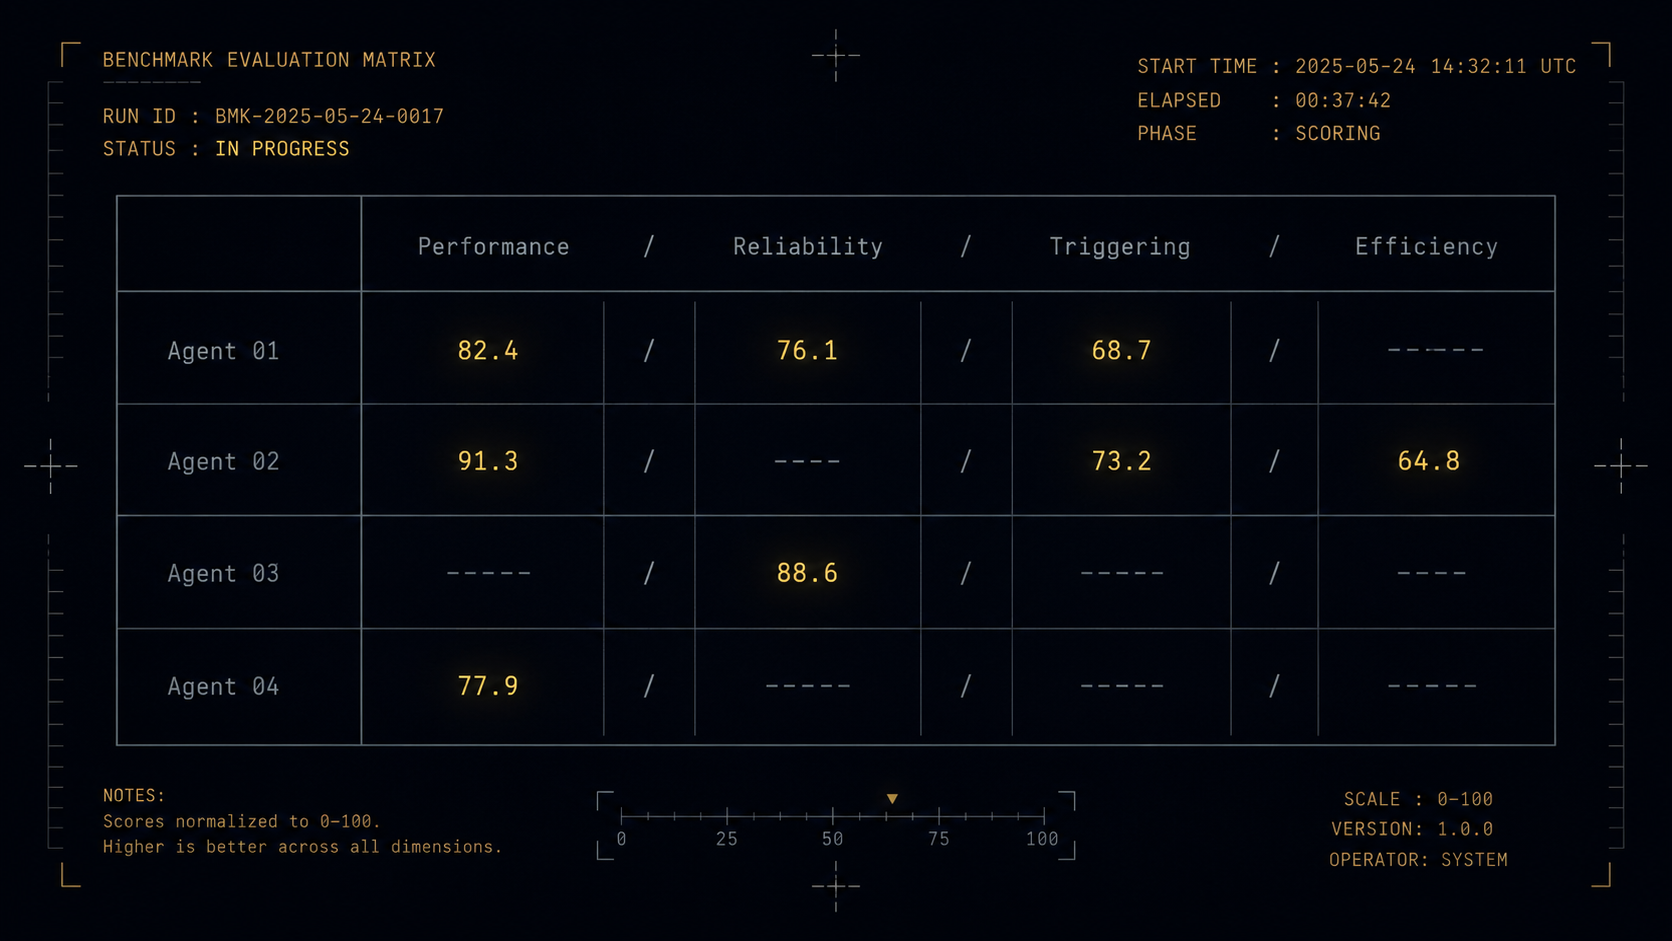
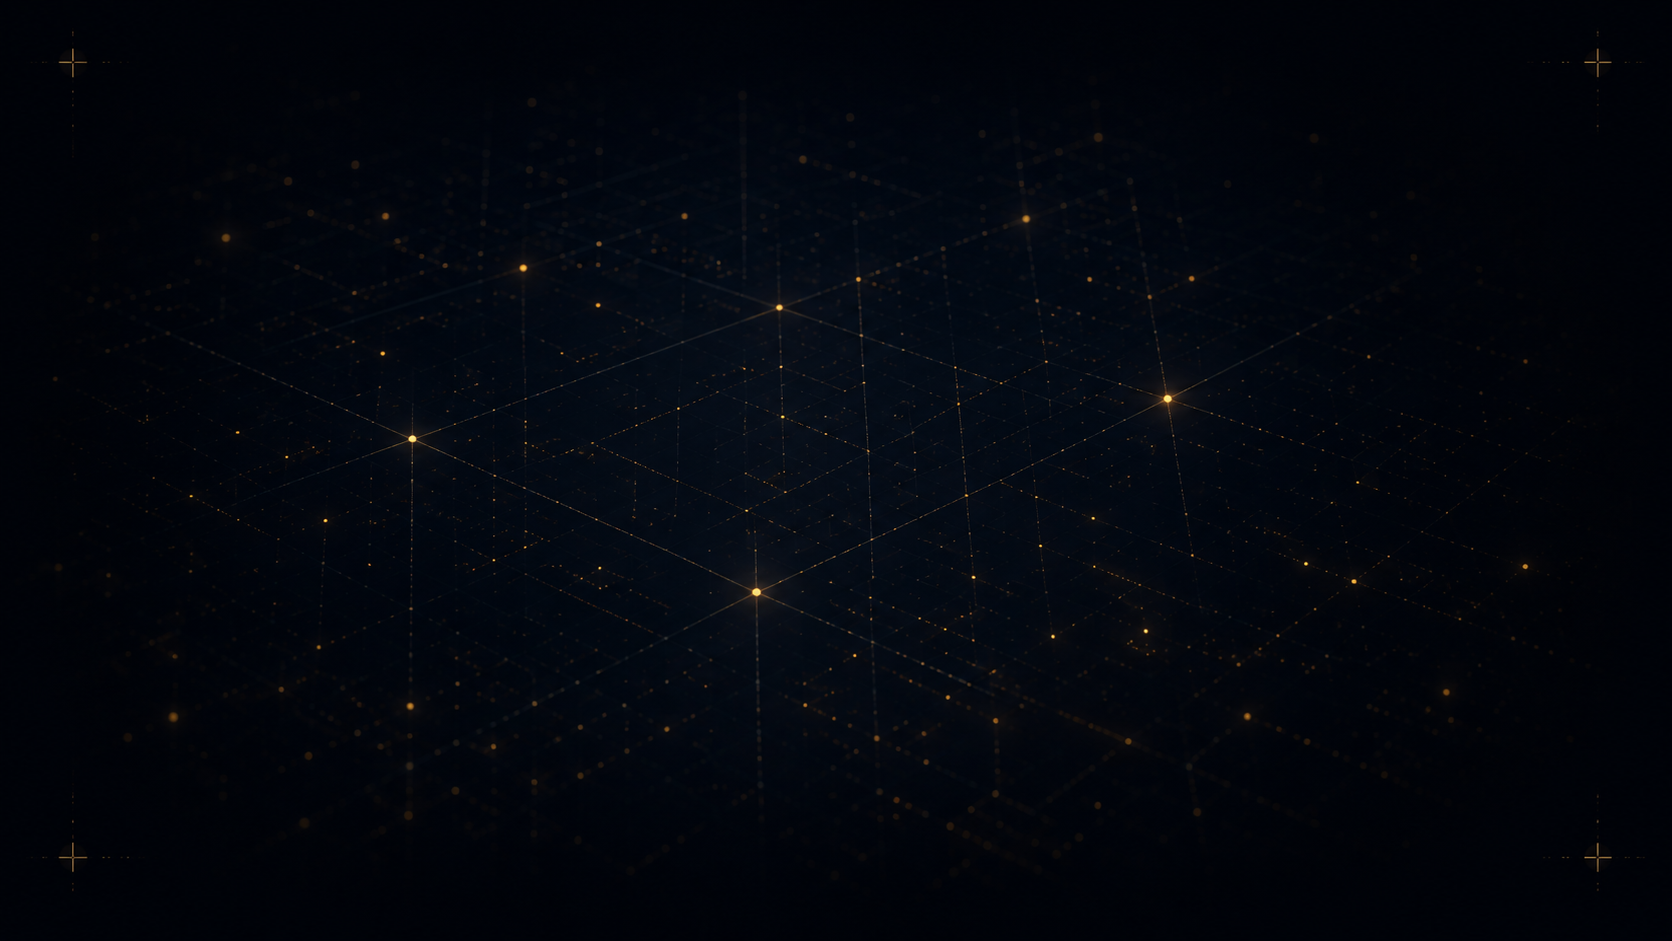
design(benchmarks): swap abstract background v2, add nav cache-busts
- Replace benchmark-matrix.png with abstract gold-grid image (no conflicting text)
- Add ?v=5.11.13 cache-busts to mounts.js, site-nav.js, site-footer.js on
  humaneval/ and mmlu/ subpages

diff --git a/docs/benchmarks/humaneval/index.html b/docs/benchmarks/humaneval/index.html
@@ -88,8 +88,8 @@
 </head>
 <body>
   <nav id="site-nav"></nav>
-  <script src="../../js/mounts.js"></script>
-  <script src="../../js/site-nav.js"></script>
+  <script src="../../js/mounts.js?v=5.11.13"></script>
+  <script src="../../js/site-nav.js?v=5.11.13"></script>
 
   <main class="lb-shell">
     <div class="lb-back"><a href="../">&larr; Benchmarks</a></div>
@@ -121,7 +121,7 @@
   </main>
 
   <div id="site-footer"></div>
-  <script src="../../js/site-footer.js"></script>
+  <script src="../../js/site-footer.js?v=5.11.13"></script>
   <script src="../_shared/leaderboard.js" defer></script>
 </body>
 </html>

diff --git a/docs/benchmarks/mmlu/index.html b/docs/benchmarks/mmlu/index.html
@@ -94,8 +94,8 @@
 </head>
 <body>
   <nav id="site-nav"></nav>
-  <script src="../../js/mounts.js"></script>
-  <script src="../../js/site-nav.js"></script>
+  <script src="../../js/mounts.js?v=5.11.13"></script>
+  <script src="../../js/site-nav.js?v=5.11.13"></script>
 
   <main class="lb-shell">
     <div class="lb-back"><a href="../">&larr; Benchmarks</a></div>
@@ -134,7 +134,7 @@
   </main>
 
   <div id="site-footer"></div>
-  <script src="../../js/site-footer.js"></script>
+  <script src="../../js/site-footer.js?v=5.11.13"></script>
   <script src="../_shared/leaderboard.js" defer></script>
 </body>
 </html>